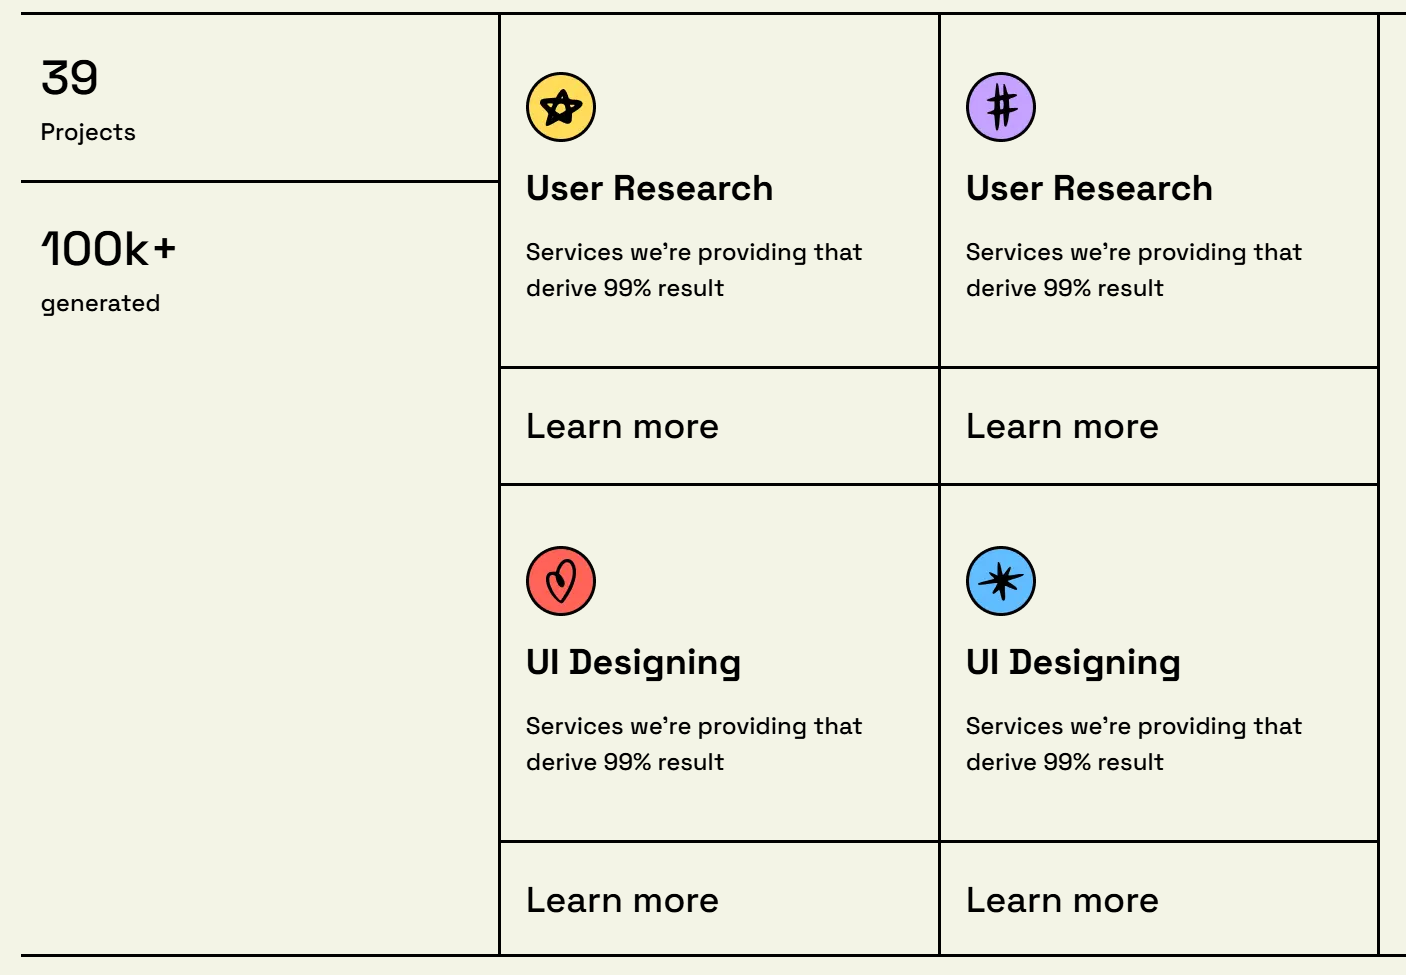
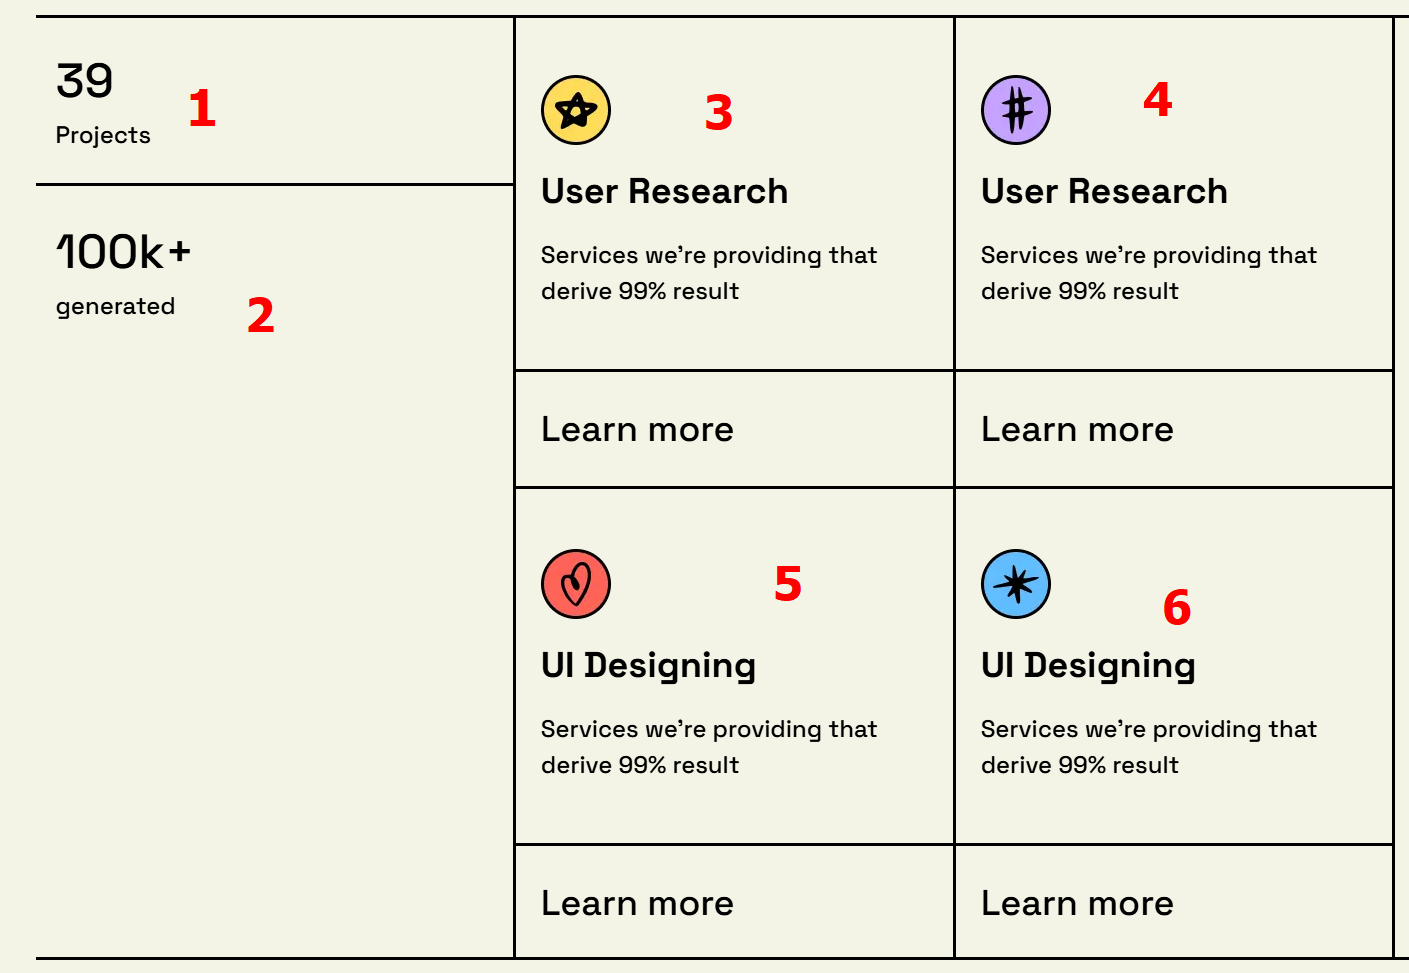
.

diff --git a/src/app/page.tsx b/src/app/page.tsx
@@ -121,7 +121,7 @@ export default function Home() {
     
       </ul>
 
-      <h1 className="text-[30px] font-bold" id="change-technologys">Service Section</h1>
+      <h1 className="text-[30px] font-bold" id="service-section">Service Section</h1>
       <p className="text-[18px] mb-[50px]">Now we will change the data of the service section</p>
 
       <ul className="pl-[15px] flex flex-col gap-y-[25px] list-disc mb-[30px]">
@@ -139,11 +139,108 @@ export default function Home() {
         </li>
 
         <li>
-          <p className="font-bold text-[20px] mb-3">Then change the text on 86 row in page.tsx</p>
-          <Image width={600} height={300} className="w-full mb-3" alt="folders and file photo" src={'/service-texts.png'} />
+          <p className="font-bold text-[20px] mb-3">Now I will mark the texts on the website with numbers. <br />
+                                                    And in this order, I will write down where those texts are located in the code, and you can change those texts without problems, God willing.
+          </p>
+          <Image width={600} height={300} className="w-full mb-3" alt="folders and file photo" src={'/service.png'} />
         </li>
-    
+
+        <li>
+          <p className="font-bold text-[20px] mb-3">1. 101 row in page.tsx</p>
+          <Image width={600} height={300} className="w-full mb-3" alt="folders and file photo" src={'/first-sevice.png'} />
+        </li>
+
+        <li>
+          <p className="font-bold text-[20px] mb-3">2. 105 row in page.tsx</p>
+          <Image width={600} height={300} className="w-full mb-3" alt="folders and file photo" src={'/second-service.png'} />
+        </li>
+
+        <li>
+          <p className="font-bold text-[20px] mb-3">3. 114 row in page.tsx</p>
+          <Image width={600} height={300} className="w-full mb-3" alt="folders and file photo" src={'/third-section.png'} />
+        </li>
+
+        <li>
+          <p className="font-bold text-[20px] mb-3">4. 122 row in page.tsx</p>
+          <Image width={600} height={300} className="w-full mb-3" alt="folders and file photo" src={'/fourth-section.png'} />
+        </li>
+
+        <li>
+          <p className="font-bold text-[20px] mb-3">5. 133 row in page.tsx</p>
+          <Image width={600} height={300} className="w-full mb-3" alt="folders and file photo" src={'/fiveth-section.png'} />
+        </li>
+
+        <li>
+          <p className="font-bold text-[20px] mb-3">6. 141 row in page.tsx</p>
+          <Image width={600} height={300} className="w-full mb-3" alt="folders and file photo" src={'/sixth-section.png'} />
+        </li> 
       </ul>
+
+      <h1 className="text-[30px] font-bold" id="my-portfolio-section">Portfolio Section</h1>
+      <p className="text-[18px] mb-[50px]">Now we will change the data of the portfolio section</p>
+
+      <ul className="pl-[15px] flex flex-col gap-y-[25px] list-disc mb-[30px]">
+
+        <li>
+          <p className="font-bold text-[20px] mb-3">Here is the location of the texts (page.tsx)</p>
+          <Image width={600} height={300} className="w-full" alt="folders and file photo" src={'/my-portfolio.png'} />
+          <Image width={600} height={300} className="w-full mb-3" alt="folders and file photo" src={'/portfolio-1.png'} />
+        </li>
+
+        <li>
+          <p className="font-bold text-[20px] mb-3">Now we will see how to edit portfolios and add more portfolios. <br />
+                                                    You can see prtfolio cards on 161 row. You can change the title, description
+          </p>
+          <Image width={600} height={300} className="w-full mb-3" alt="folders and file photo" src={'/port-card.png'} />
+          <p className="font-bold text-[20px] mb-3">If you want to change portfolio website photos you have to save it png format and you have to save it in public\images folder by naming project-[number].png if the image of the project is not visible, check here that you wrote the image url correctly</p>
+          <Image width={600} height={300} className="w-full mb-3" alt="folders and file photo" src={'/project-images.png'} />
+        </li>
+
+      </ul>
+
+      <h1 className="text-[30px] font-bold" id="client-section">Client Section</h1>
+      <p className="text-[18px] mb-[50px]">So now you know how to change them all</p>
+
+      <ul className="pl-[15px] flex flex-col gap-y-[25px] list-disc mb-[30px]">
+
+        <li>
+          <p className="font-bold text-[20px] mb-3">Text 173-row</p>
+          <Image width={600} height={300} className="w-full" alt="folders and file photo" src={'/clients.png'} />
+        </li>
+
+        <li>
+          <p className="font-bold text-[20px] mb-3">Editing my client comments is similar to the card section in my portfolio</p>
+          <Image width={600} height={300} className="w-full" alt="folders and file photo" src={'/clients-coment.png'} />
+        </li>
+
+      </ul>
+
+      <h1 className="text-[30px] font-bold" id="start-your-design">Start your design</h1>
+      <p className="font-bold text-[20px] mb-7">And the last part contains all the texts and you can change them if you want. By changing the link given to the href in the Send us message section, you can control which link it will redirect to when you click the button, and in that section you can write down your telegram or the link where they can contact you.</p>
+
+      <h1 className="text-[30px] font-bold" id="footer-section">Footer section</h1>
+      <p className="text-[18px] mb-[50px]">Now we will change the data of the Fotter section</p>
+
+      <ul className="pl-[15px] flex flex-col gap-y-[25px] list-disc mb-[30px]">
+
+        <li>
+          <p className="font-bold text-[20px] mb-3">Click on the folders and file that have shown in photo</p>
+          <Image width={600} height={300} className="w-full mb-3" alt="folders and file photo" src={'/footer.png'} />
+        </li>
+
+        <li>
+          <p className="font-bold text-[20px] mb-3">If you want to change logo and portfolio name then you have to change the (znis) text to yours and replace your logo to public\images file that have shown in second photo. Your photo has to svg format</p>
+          <Image width={600} height={300} className="w-full mb-3" alt="navbar logo and portfolio name photo" src={'/footer-text.png'} />
+          <Image width={600} height={300} className="w-full" alt="changing logo" src={'/logo.png'} />
+        </li>
+
+        <li>
+          <p className="font-bold text-[20px] mb-3">You can change the texts in navbar section if you want</p>
+          <Image width={600} height={300} className="w-full" alt="navbar logo and portfolio name photo" src={'/navbar-texts.png'} />
+        </li>
+
+      </ul>
+
     </section>
   );
 }
